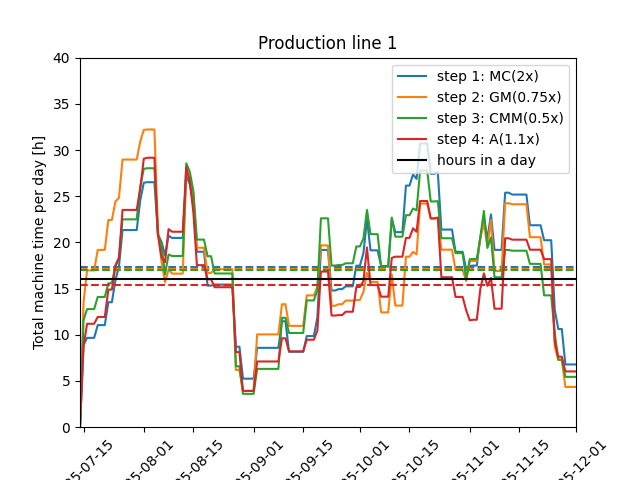
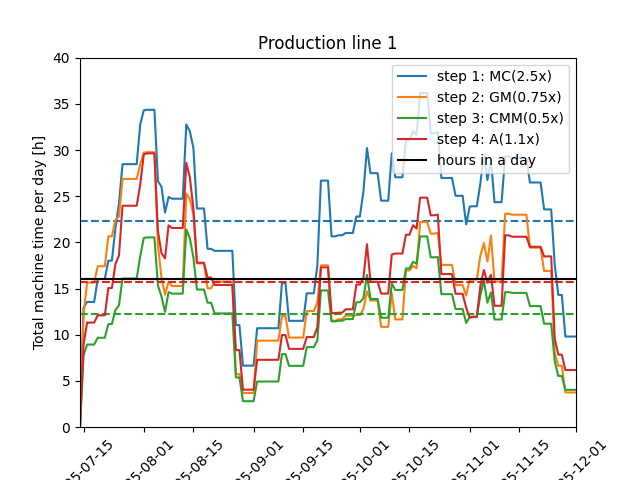
new pictures

Changed region(s): [[0.125, 0.2188, 0.9062, 0.8438], [0.8125, 0.1562, 0.875, 0.1875], [0.6562, 0.1875, 0.6875, 0.2188]]

diff --git a/Job's Scripts/get_daily_data.py b/Job's Scripts/get_daily_data.py
@@ -36,16 +36,16 @@ class Planning:
 planning = Planning()
 
 planning.machine_quantity = [
-    [2,2,2.3,2,1,2], # route 0 / SM,TM,MM,GM,CMM,A
+    [2,2,3,2,1,2], # route 0 / SM,TM,MM,GM,CMM,A
     [2,0.75,0.5,1.1], # route 1 / MC,GM,CMM,A
-    [1,2.1,1.5,0.9], # route 2 / SM,MM,DM,CMM
+    [1,2,1.5,0.9], # route 2 / SM,MM,DM,CMM
     [1,2,1,0.75,1], # route 3 / SM,MC,GM,CMM,A
-    [0.6,0.3,0.5,0.5,0.5,0.6,0.25,0.5], # route 4 / SM,TM,MM,TM,GM,DM,CMM,A
-    [0.4,0.1,0.2,0.5,0.2,0.3,0.2], # route 5 / TM,CMM,TM,GM,CMM,MM,CMM
+    [0.6,0.3,0.3,0.5,0.5,0.6,0.25,0.5], # route 4 / SM,TM,MM,TM,GM,DM,CMM,A
+    [0.4,0.1,0.2,0.5,0.2,0.2,0.2], # route 5 / TM,CMM,TM,GM,CMM,MM,CMM
     [0.4], # route 6 / A
-    [0.1,0.2,0.3,0.25,0.1], # route 7 / SM,TM,MM,GM,CMM
+    [0.1,0.2,0.1,0.25,0.1], # route 7 / SM,TM,MM,GM,CMM
     [0.1,0.1,0.1], # route 8 / SM,TM,MM
-    [0.2,0.5,0.4] # route 9 / SM,MM,DM
+    [0.2,0.4,0.4] # route 9 / SM,MM,DM
     ]
 
 flat_order_dates = []
@@ -101,7 +101,7 @@ for i, day in enumerate(pd.date_range(start=start_date, end=end_date)):
 
         # add setup time ONCE
         for l in range(len(ordered_part.setup_time[idx])):
-            mq = planning.machine_quantity[route_number][l]
+            #mq = planning.machine_quantity[route_number][l]
             planning.route_time[i][route_number][l] += ordered_part.setup_time[idx][l]#/mq
 
         # add production time
@@ -109,7 +109,7 @@ for i, day in enumerate(pd.date_range(start=start_date, end=end_date)):
             mq = planning.machine_quantity[route_number][j]
             machine_time = (
                     (ordered_part.avg_idle_time[idx][j] + ordered_part.process_time[idx][j])
-                    * planning.part_quantities[i][p]
+                    * planning.part_quantities[i][p] / planning.machine_quantity[route_number][j]
             )
             planning.route_time[i][route_number][j] += machine_time
 
@@ -119,7 +119,7 @@ for j in unique_route_numbers:
 
     for k, machine in enumerate(part_routes[j]):
         y = [
-            planning.route_time[i][j][k] / planning.machine_quantity[j][k]
+            planning.route_time[i][j][k]
             for i in range(len(planning.day))
         ]
 
@@ -144,22 +144,5 @@ for j in unique_route_numbers:
     plt.xticks(rotation=45)
     plt.savefig(f"{j}.png")
 
-
-# for j in unique_route_numbers[5::]:
-#     plt.figure()
-#     for k, machine in enumerate(part_routes[j]):
-#         y = [
-#             planning.route_time[i][j][k] for i in range(len(planning.day))
-#          ]
-#         plt.plot(planning.day, y, label= f"step {k+1}: {machine}({planning.machine_quantity[j][k]}x)")
-#
-#     plt.xlabel("Day")
-#     plt.ylabel("Total machine time per day [h]")
-#     plt.title(f"Production line {j}")
-#     plt.legend(loc="upper right")
-#     plt.ylim(0, 40)
-#     plt.xlim(start_date, end_date)
-#     plt.xticks(rotation=45)
-#     plt.savefig(f"{j}.png")
-plt.show()
+#plt.show()
 

diff --git a/Job's Scripts/OEE.py b/Job's Scripts/OEE.py
@@ -15,8 +15,8 @@ class Available_machines:
         shifts = 2
         hours = 8
         days = len(pd.date_range(start=start_date, end=end_date))
-        print(days)
         self.total_time = shifts * hours * days
+        print(self.total_time)
 
         self.old_machine_quantity = dict(zip(self.machine_id, [5, 4, 5, 5, 2, 4, 4, 2]))
         #self.new_machine_quantity = dict(zip(self.machine_id, [5, 4, 6, 4, 3, 5, 4, 5])) to match planning
